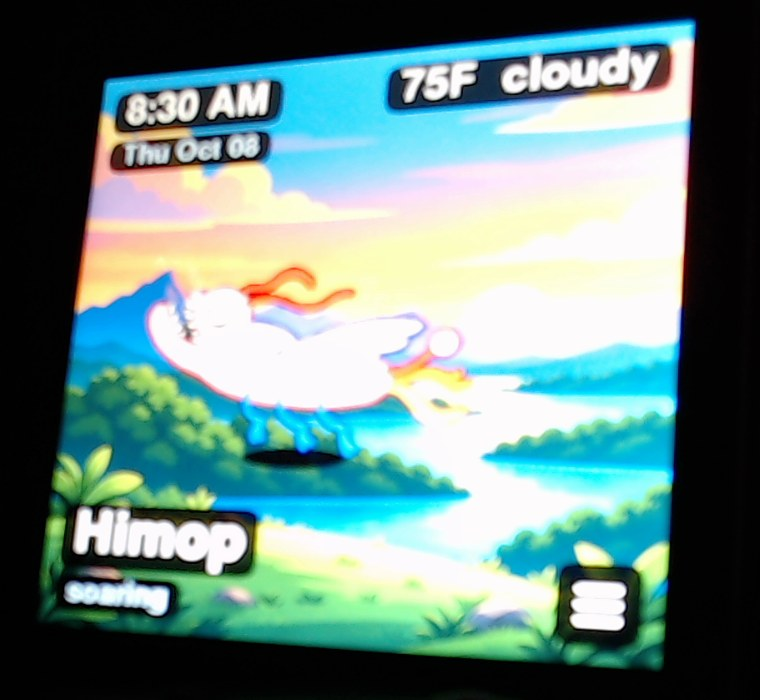
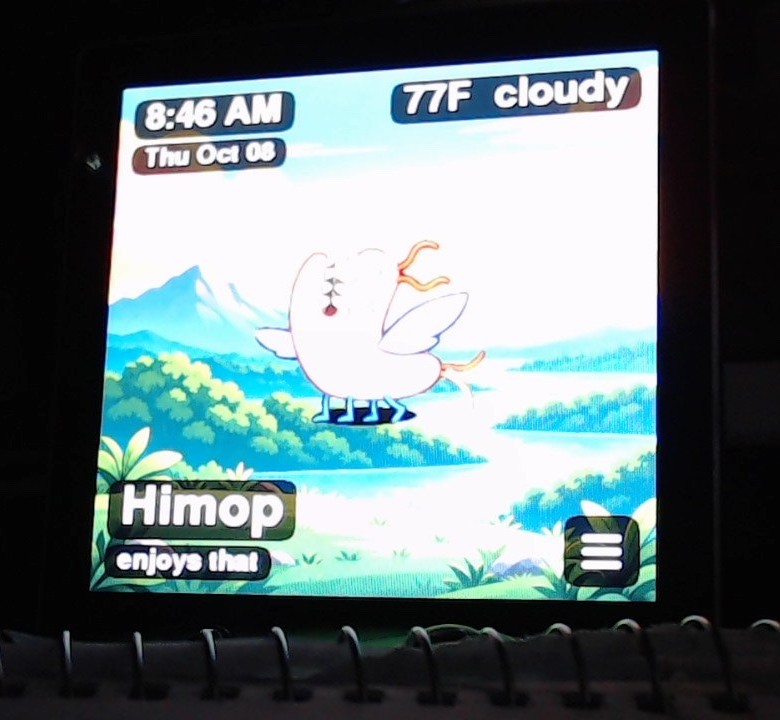
Retake the desk photo: sharp, properly exposed, Himop enjoying a pet.

diff --git a/pickupandgo.md b/pickupandgo.md
@@ -209,4 +209,4 @@ ROM reported flash mode DIO. That is what this platform writes for QIO boards, a
 - 2026-10-07: Replaced the README webcam photos with pixel-exact stills (`docs/images/screens/`) and animations (`docs/images/anim/`).
 - 2026-10-07: Naps only on screen. If a nap comes due while he's off-screen, he starts at ground level just past a side edge and walks in ("walking back", 1.8 px/frame) to the play area, then naps. If he's on screen but outside the play area, he flies in first.
 - 2026-10-07: Petting keeps him on screen. The first tap sets `stayUntil` to 30 s, each further tap (new press) adds 10 s, capped at 5 min. While it runs, `rollChoice` turns off-screen trips (soar-up, explore) into plain soaring. Other behaviors continue.
-- 2026-10-08: Added a real webcam photo of the board (`docs/images/photo/on-the-desk.jpg`, from the C920) near the top of the README. To take one: `ffmpeg -f avfoundation -pixel_format uyvy422 -framerate 30 -video_size 1920x1080 -i 0 -t 20 -vf fps=2,crop=760:700:760:0 g_%02d.png`, then keep the sharpest frame. Opening the serial port resets the board, so wait about 25 s after opening it for Wi-Fi and the clock before tapping.
+- 2026-10-08: Added a real webcam photo of the board (`docs/images/photo/on-the-desk.jpg`, from the C920) near the top of the README. Use `imagesnap -d "HD Pro Webcam C920" -w 2 out.jpg` (still capture: sharp and properly exposed). A frame grabbed with ffmpeg avfoundation came out soft and blown out. Crop about (690,0)-(1470,720) of the 1920x1080 shot. Opening the serial port resets the board, so wait about 25 s for Wi-Fi and the clock before tapping. Don't use the npm `uvcc` camera tool: it hangs on macOS and left the C920 stuck for ffmpeg. PWM on the backlight pin (38) doesn't dim the panel; any level below full looks off.

diff --git a/README.md b/README.md
@@ -11,7 +11,7 @@ A small desk pet for the Guition ESP32-4848S040, a 4-inch 480×480 touch screen.
 Every screenshot here is a pixel-exact dump of the board's framebuffer (see [Screenshots](#screenshots)). Here's the real thing on the desk, photographed with a webcam:
 
 <p align="center">
-  <img src="docs/images/photo/on-the-desk.jpg" alt="Photo of the ESP32-4848S040 on a desk showing Himop soaring, with the time, date, and weather" width="60%">
+  <img src="docs/images/photo/on-the-desk.jpg" alt="Photo of the ESP32-4848S040 on a desk showing Himop enjoying a pet, with the time, date, and weather" width="60%">
 </p>
 
 ## Credit
